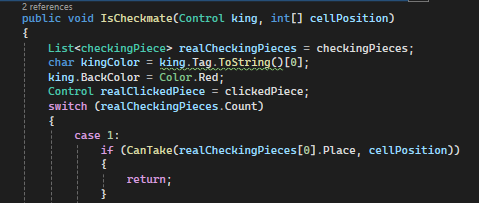
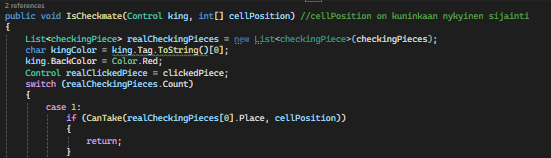
yksi bugi korjaus ja READMEiin päivittelyä

diff --git a/Nayttotyo/Form1.cs b/Nayttotyo/Form1.cs
@@ -647,7 +647,7 @@ namespace Nayttotyo
         }
         public void IsCheckmate(Control king, int[] cellPosition) //cellPosition on kuninkaan nykyinen sijainti
         {
-            List<checkingPiece> realCheckingPieces = checkingPieces;
+            List<checkingPiece> realCheckingPieces = new List<checkingPiece>(checkingPieces);
             char kingColor = king.Tag.ToString()[0];
             king.BackColor = Color.Red;
             Control realClickedPiece = clickedPiece;

diff --git a/README.md b/README.md
@@ -35,7 +35,7 @@ https://github.com/Kuuho12/CSharpNayttotyo/assets/106885770/591a4ae6-de84-4ffe-a
 
 
 
-## Koodin esittely (vanhentunut)
+## Koodin esittely
 
 Jokaisella nappulalla on hyvin samankaltaiset click-eventhandlerit:
 
@@ -48,7 +48,8 @@ vuorolla ja kolmas kun vihollisen nappula syö oman nappula.
 
 ClickingPiece on pitkä funktio, joka näyttää mihin klikattava nappula voi liikkua luomalla pisteitä kartalle ja 
 muuttamalla napattavien vastustajan nappuloiden taustavärin punaiseksi. DeleteMoveSignals pyyhkii aiemmat tällaiset 
-merkinnät.
+merkinnät ja tableLayoutPanel1.SuspendLayout() estää näytön välähteleä, kun algoritmi siirtää hetkellisesti nappulan
+eri ruutuun tarkistaakseen, että siirto on sääntöjen mukainen eli ettei se shakita omaa kuningasta.
 
 ![screenshot](images/rook_closeup.png)
 
@@ -66,7 +67,7 @@ napattavaksi vaihtamalla sen taustaväriä punaiseksi.
 Eri nappuloiden liikkeiden hoitaminen vie paljon tilaa, tässä vain tornin liikkeiden hoito. Fuktio vie lähemmäs 500
 riviä tilaa.
 
-![screenshot](images/correct_isgonnacheck.png)
+![screenshot](images/isgonnacheck.png)
 
 IsGonnaCheck-funktio tekee muutoksia laudalla (tableLayoutPanel1) ja occupiedTiles-listaan kyseisen liikkeen mukaan ja
 tarkistaa sen jälkeen DidCheck-funktiolla johtaisiko liike oman kuninkaan shakkiin. Jos johtaa shakkiin, niin funktio
@@ -78,7 +79,9 @@ funktio on hidas.
 Moving-funktiota kutsutaan aina pistettä painettaessa tai napattavaa vastustajan nappulaa painettaessa. Aluksi
 suoritetaan DeleteMoveSignals, jonka jälkeen hoidetaan nappuloiden liikkeet laudalla ja muokataan
 occupiedTiles-lista paikkaansa pitäväksi. Sen jälkeen tarkistetaan shakitettiinko vastustajan kuningasta ja jos
-shakitettiin, niin syntyikö shakkimatti. Lopuksi vaihdetaan vuoroa muuttamalla globaalin isWhitesTurn-muuttujan arvoa.
+shakitettiin, niin syntyikö shakkimatti. Seuraavaksi jos kuningas tai torni liikkui, muutetaan globaalien muuttujien
+arvoa, jotta kyseisellä nappulalla ei voi enää tornittaa. Lopuksi vaihdetaan vuoroa muuttamalla globaalin isWhitesTurn
+-muuttujan arvoa.
 
 ![screenshot](images/did_check.png)
 
@@ -105,8 +108,8 @@ palauttavat truen ja palauttavat falsen funktion loppuun päästessä.
 
 Jos shakittavia nappuloita on enemmän kuin yksi, niin funktio tarkistaa vain onko kuninkaalle paettavaa ruutua. Jos 
 funktio palaudu missään vaiheessa niin "Checkmate" teksti ilmestyy ja koska jokainen mahdollinen liike jättäisi kuniinkaan
-shakkiin ei mitään liikettä voi enää suorittaa. Peli on päättynyt ja sen voi aloittaa uudestaan käynistämällä ohjelma
-uudestaan.
+shakkiin ei mitään liikettä voi enää suorittaa. Peli on päättynyt ja sen voi aloittaa uudestaan painamalla "Aloita peli" 
+-nappia uudestaan.
 
 ## Jatkokehitysideat
 
@@ -114,5 +117,4 @@ Kun koodissa testataan joutuisiko oma kuninkaasi shakkiin jos sitä liikutetaan 
 koodi oikeasti siirtää hetken ajaksi nappulan siihen ruutuun, tuhlaten paljon tehoa. Tämä kannattaisi muuttaa, eikä
 IsGonnaCheck-funktiota kannattaisi muutenkaan spammia joka ruudulle. Sotilaan parantaminen toiseksi nappulaksi viemällä 
 sen laudan toiseen laitaan voisi lisätä peliin. Pelitulokset voisi tallentaa tiedostoon. Peliin voisi lisätä myös kellot 
-kummallenkin pelaajalle, josta kuluu aikaa omalla vuorolla ja kellon ajan loppuessa häviäisit. Myös "Pelaa' uudestaan"-
-nappula olisi hyvä lisäys.
+kummallenkin pelaajalle, josta kuluu aikaa omalla vuorolla ja kellon ajan loppuessa häviäisit.
